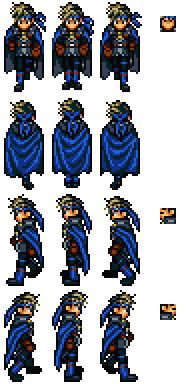
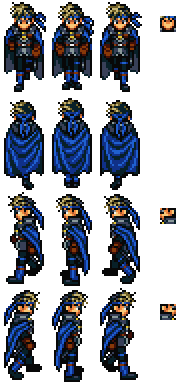
Correct walking motion

Changed region(s): [[0.5312, 0.5, 0.75, 1.0], [0.0, 0.5, 0.2188, 1.0]]

diff --git a/game/js/Character.js b/game/js/Character.js
@@ -16,10 +16,10 @@ class Character extends Mob {
 		this.offsetY = options.offsetY || 128
 
 		// Standard Character animations
-		this.addAnimation('walknorth', [ [0,1],[1,1],[2,1],[1,1] ])
-		this.addAnimation('walksouth', [ [0,0],[1,0],[2,0],[1,0] ])
-		this.addAnimation('walkwest',[ [2,2],[1,2],[0,2],[1,2] ])
-		this.addAnimation('walkeast', [ [2,3],[1,3],[0,3],[1,3] ])
+		this.addAnimation('walknorth', [ [0,1,120],[1,1,120],[2,1,120],[1,1,120] ])
+		this.addAnimation('walksouth', [ [0,0,120],[1,0,120],[2,0,120],[1,0,120] ])
+		this.addAnimation('walkwest',  [ [2,2,120,-8,2],[1,2,120,-8,-2],[0,2,120,-8,2],[1,2,120,-8,-2] ])
+		this.addAnimation('walkeast',  [ [2,3,120,8,2],[1,3,120,8,-2],[0,3,120,8,2],[1,3,120,8,-2] ])
 		this.addAnimation('jump', [
 			[ 1, 0, 50, 0, -10 ],
 			[ 0, 0, 50, 0, -10 ],
@@ -28,6 +28,9 @@ class Character extends Mob {
 			[ 0, 0, 50, 0, 10 ],
 			[ 1, 0, 50, 0, 10 ],
 		])
+
+		var v = []; for(var i=0; i<Math.PI*2; i=i+Math.PI*2/32) { v.push([ 2, 3, 50, 0, Math.round(Math.cos(i)*3) ]) }
+		this.addAnimation('floateast', v)
 
 		// Overlay and animations (blinking, etc)
 		var overlay = new Mob({ asset: this.asset, offsetX: 0, offsetY: 0, tile: null, tileWidth: 48, tileHeight: 96 })

diff --git a/game/js/Remake.js b/game/js/Remake.js
@@ -72,9 +72,10 @@ class Remake extends GameEngine {
 			// After 2 sec, cue Flik, cause he's slightly lazy
 			setTimeout(()=>{
 				// Get him to walk 'west' until the middle plus 192px
-				this.flik.animateStart({ name: 'walkwest', loop: true, delay: 120, dx: -10, minX: this.charStopX-192, stopTile: [1,0], onStop: (mob)=>{
+				this.flik.animateStart({ name: 'walkwest', loop: true, delay: 120, dx: -10, minX: this.charStopX-192, stopTile: [1,3], onStop: (mob)=>{
 					// Stand there and blink occasionally
-					mob.getMob('overlay').animateStart({ name: 'blinksouth', loop: true })
+					// mob.animateStart({ name: 'floateast', loop: true })
+					mob.getMob('overlay').animateStart({ name: 'blinkeast', loop: true })
 				}})
 			},2000)
 		} else {

diff --git a/game/js/Mob.js b/game/js/Mob.js
@@ -145,6 +145,10 @@ class Mob {
 			if(frame.length>3 && frame[3]!=null) dx = frame[3]
 			if(frame.length>4 && frame[4]!=null) dy = frame[4]
 
+			// If deltaX/Y is specified, move us
+			if(dx) this.offsetX += dx
+			if(dy) this.offsetY += dy
+
 			// End Conditions
 			if (
 				// We have moved to or past a specifed boundary (maxX, maxY)
@@ -158,10 +162,6 @@ class Mob {
 
 			// Increment the frame
 			this._currentanimation.frame++
-
-			// If deltaX/Y is specified, move us
-			if(dx) this.offsetX += dx
-			if(dy) this.offsetY += dy
 
 			// End / Loop conditions
 			if(this._currentanimation.frame>=anim.length) {

diff --git a/game/js/Scene.js b/game/js/Scene.js
@@ -130,4 +130,7 @@ class Scene {
 	}
 }
 
+Scene.PERSPECTIVE_OVERHEAD = 1
+Scene.PERSPECTIVE_ANGLE = 2
+
 module.exports = Scene
